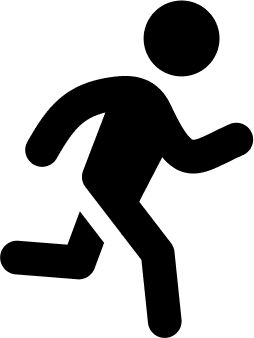
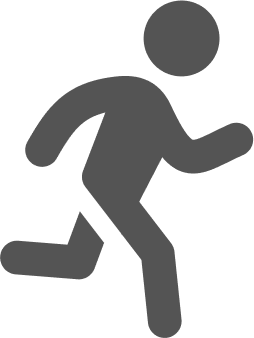
more styles

diff --git a/src/components/mapSection.js b/src/components/mapSection.js
@@ -1,4 +1,4 @@
-import React, {useCallback, useState,useRef, useEffect} from 'react'
+import React, {useCallback, useState,useRef} from 'react'
 import { GoogleMap,Marker,InfoWindow,useLoadScript } from '@react-google-maps/api';
 import mapStyles from "./mapStyles";
 import { formatRelative } from "date-fns";
@@ -99,19 +99,21 @@ export const MapSection = () => {
             icon={{
               url: `/bible.png`,
               origin: new window.google.maps.Point(0, 0),
-              anchor: new window.google.maps.Point(10, 12),
-              scaledSize: new window.google.maps.Size(20, 24),
+              anchor: new window.google.maps.Point(35, 40 ),
+              scaledSize: new window.google.maps.Size(70, 80),
             }}
           />
         ))}
         {selected ? (
             <InfoWindow
               position={{ lat: selected.lat, lng: selected.lng }}
+           
               onCloseClick={() => {
                 setSelected(null);
+                
               }}
             >
-              <div>
+              <div className='infoMarker'>
                 <h2>
                 Event
                 </h2>
@@ -120,6 +122,7 @@ export const MapSection = () => {
                 <p>Created {formatRelative(selected.time, new Date())}</p>
               </div>
             </InfoWindow>
+        
           ) : null}
 
 

diff --git a/src/styles/styles.css b/src/styles/styles.css
@@ -9,7 +9,7 @@ body {
 body .search {
   position: absolute;
   top: 5vw;
-  left: 50%;
+  left: 70%;
   -webkit-transform: translateX(-50%);
           transform: translateX(-50%);
   width: 40%;
@@ -38,5 +38,11 @@ body .search .combobox .pop_over {
   font-size: 2.2vh;
   padding: 1.8vh;
   padding-top: 5vh;
+}
+
+body .infoMarker {
+  padding: 1vh;
+  font-size: 0.8vh;
+  width: 10vh;
 }
 /*# sourceMappingURL=styles.css.map */

diff --git a/src/styles/styles.scss b/src/styles/styles.scss
@@ -17,7 +17,7 @@ body {
   .search {
     position: absolute;
     top: 5vw;
-    left: 50%;
+    left: 70%;
     transform: translateX(-50%);
     width: 40%;
     max-width: 1000px;
@@ -47,6 +47,11 @@ body {
         padding-top: 5vh;
       }
     }
+  }
+  .infoMarker {
+    padding: 1vh;
+    font-size: 0.8vh;
+    width: 10vh;
   }
 }
 
